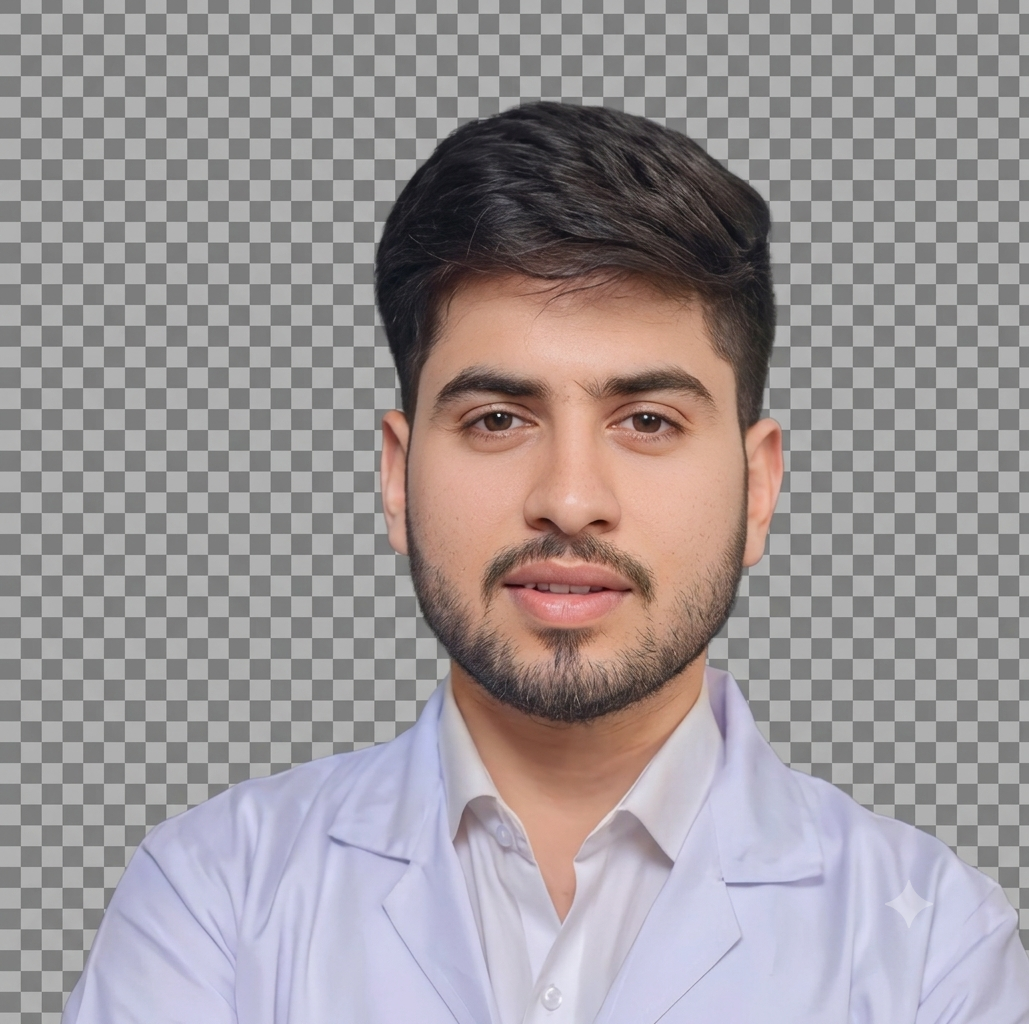
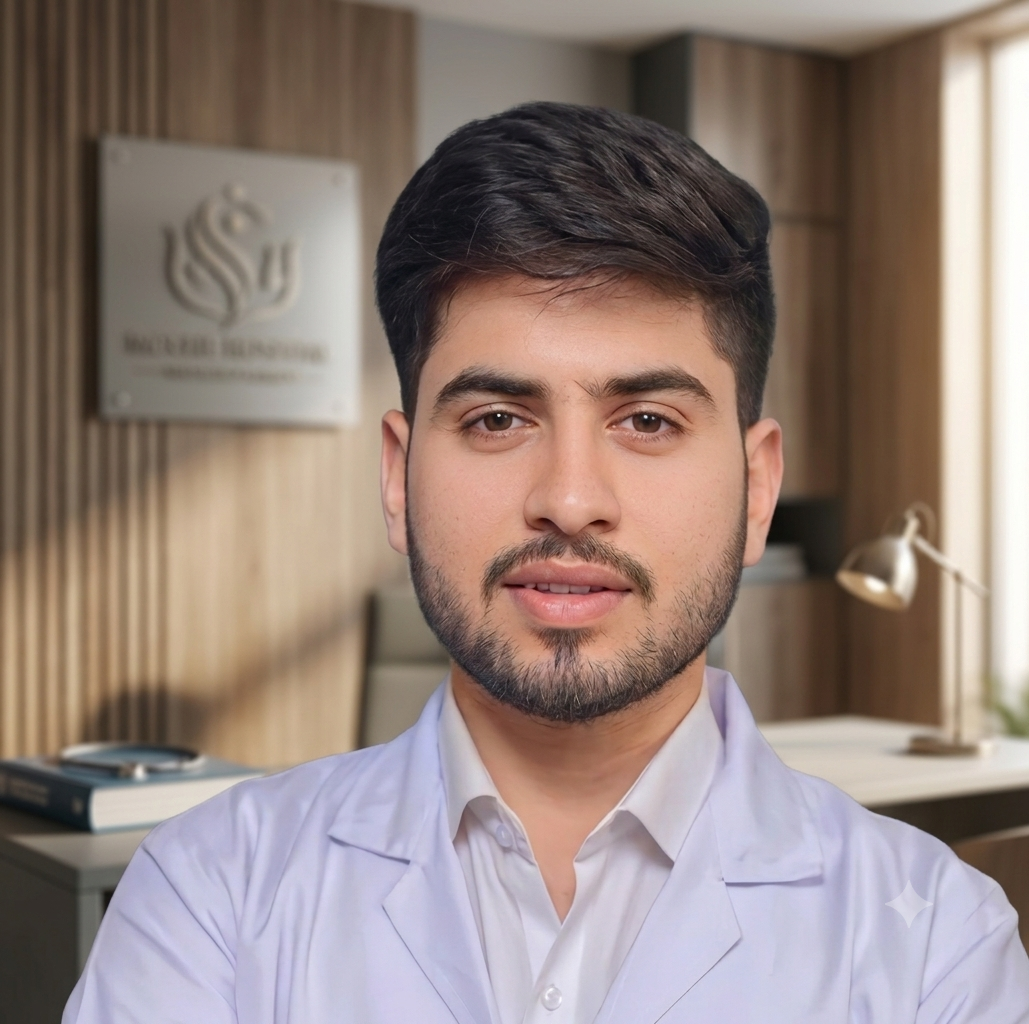
v4

diff --git a/src/components/YoutubeSlider.tsx b/src/components/YoutubeSlider.tsx
@@ -1,0 +1,116 @@
+import React, { useCallback, useEffect, useState } from 'react';
+import useEmblaCarousel from 'embla-carousel-react';
+import { ChevronLeft, ChevronRight, Youtube } from 'lucide-react';
+import { motion } from 'framer-motion';
+
+// Replace these IDs with the actual video IDs from the channel
+const YOUTUBE_VIDEO_IDS = [
+  "dQw4w9WgXcQ", 
+  "jNQXAC9IVRw",
+  "M7lc1UVf-VE",
+  "2g811Eo7K8U",
+  "ysz5S6PUM-U"
+];
+
+const YoutubeSlider = () => {
+  const [emblaRef, emblaApi] = useEmblaCarousel({
+    align: 'start',
+    loop: true,
+    slidesToScroll: 1,
+    breakpoints: {
+      '(min-width: 768px)': { slidesToScroll: 2 },
+      '(min-width: 1024px)': { slidesToScroll: 3 }
+    }
+  });
+
+  const [prevBtnEnabled, setPrevBtnEnabled] = useState(false);
+  const [nextBtnEnabled, setNextBtnEnabled] = useState(false);
+
+  const scrollPrev = useCallback(() => emblaApi && emblaApi.scrollPrev(), [emblaApi]);
+  const scrollNext = useCallback(() => emblaApi && emblaApi.scrollNext(), [emblaApi]);
+
+  const onSelect = useCallback(() => {
+    if (!emblaApi) return;
+    setPrevBtnEnabled(emblaApi.canScrollPrev());
+    setNextBtnEnabled(emblaApi.canScrollNext());
+  }, [emblaApi]);
+
+  useEffect(() => {
+    if (!emblaApi) return;
+    onSelect();
+    emblaApi.on('select', onSelect);
+    emblaApi.on('reInit', onSelect);
+  }, [emblaApi, onSelect]);
+
+  return (
+    <section className="py-24 bg-white relative overflow-hidden">
+      <div className="container mx-auto px-4 relative z-10">
+        <motion.div initial={{ opacity: 0, y: 20 }} whileInView={{ opacity: 1, y: 0 }} viewport={{ once: true }} className="text-center mb-16">
+          <div className="inline-flex items-center gap-2 px-4 py-2 rounded-full bg-red-50 text-red-600 text-sm font-bold tracking-wide uppercase mb-6 border border-red-100">
+            <Youtube className="w-5 h-5" />
+            Watch Our Videos
+          </div>
+          <h2 className="font-display text-4xl md:text-5xl font-bold text-foreground mt-2">Patient Success & Insights</h2>
+          <p className="text-muted-foreground mt-4 max-w-2xl mx-auto text-lg">
+            See real results and learn more about chiropractic care directly from Dr. Harshvardhan.
+          </p>
+        </motion.div>
+
+        <div className="relative max-w-6xl mx-auto">
+          <div className="overflow-hidden rounded-3xl" ref={emblaRef}>
+            <div className="flex -ml-6">
+              {YOUTUBE_VIDEO_IDS.map((id, index) => (
+                <div key={index} className="pl-6 min-w-[90vw] sm:min-w-[50%] lg:min-w-[33.333%] shrink-0">
+                  <div className="bg-zinc-100 rounded-[2rem] shadow-xl overflow-hidden group relative aspect-[9/16] md:aspect-video">
+                    <iframe
+                      width="100%"
+                      height="100%"
+                      src={`https://www.youtube.com/embed/${id}?rel=0`}
+                      title="YouTube video player"
+                      frameBorder="0"
+                      allow="accelerometer; autoplay; clipboard-write; encrypted-media; gyroscope; picture-in-picture; web-share"
+                      referrerPolicy="strict-origin-when-cross-origin"
+                      allowFullScreen
+                      className="absolute inset-0 w-full h-full object-cover"
+                    ></iframe>
+                  </div>
+                </div>
+              ))}
+            </div>
+          </div>
+
+          <button
+            onClick={scrollPrev}
+            className={`absolute left-0 top-1/2 -translate-y-1/2 -translate-x-4 lg:-translate-x-12 w-14 h-14 rounded-full bg-white shadow-2xl border-4 border-white flex items-center justify-center text-primary hover:bg-primary hover:text-white transition-all z-10 ${
+              !prevBtnEnabled ? 'opacity-50 cursor-not-allowed' : ''
+            }`}
+            disabled={!prevBtnEnabled}
+            aria-label="Previous slide"
+          >
+            <ChevronLeft className="w-6 h-6" />
+          </button>
+          
+          <button
+            onClick={scrollNext}
+            className={`absolute right-0 top-1/2 -translate-y-1/2 translate-x-4 lg:translate-x-12 w-14 h-14 rounded-full bg-white shadow-2xl border-4 border-white flex items-center justify-center text-primary hover:bg-primary hover:text-white transition-all z-10 ${
+              !nextBtnEnabled ? 'opacity-50 cursor-not-allowed' : ''
+            }`}
+            disabled={!nextBtnEnabled}
+            aria-label="Next slide"
+          >
+            <ChevronRight className="w-6 h-6" />
+          </button>
+        </div>
+
+        <div className="text-center mt-12">
+          <a href="https://www.youtube.com/@drHarshvardhanchiropactor/videos" target="_blank" rel="noopener noreferrer" className="inline-flex items-center justify-center gap-2 px-8 py-4 rounded-full bg-red-600 text-white font-bold hover:bg-red-700 transition-colors shadow-lg hover:shadow-xl hover:scale-105 transform duration-300">
+            <Youtube className="w-6 h-6" />
+            View Channel
+          </a>
+        </div>
+      </div>
+    </section>
+  );
+};
+
+export default YoutubeSlider;

diff --git a/src/components/ContactSection.tsx b/src/components/ContactSection.tsx
@@ -1,65 +1,87 @@
 import { motion } from "framer-motion";
 import { MapPin, Phone, Clock, Mail } from "lucide-react";
+import { doctor } from "@/data/siteData";
 
 const ContactSection = () => (
-  <section id="contact" className="py-20">
-    <div className="container mx-auto px-4">
+  <section id="contact" className="py-24 bg-white relative overflow-hidden">
+    {/* Decorative background */}
+    <div className="absolute top-0 right-0 w-1/3 h-1/2 bg-blue-50/50 rounded-bl-[100px] pointer-events-none" />
+
+    <div className="container mx-auto px-4 relative z-10">
       <motion.div initial={{ opacity: 0, y: 20 }} whileInView={{ opacity: 1, y: 0 }} viewport={{ once: true }} className="text-center mb-16">
-        <span className="text-primary font-semibold text-sm uppercase tracking-wider">Contact Us</span>
-        <h2 className="font-display text-3xl md:text-4xl font-bold text-foreground mt-2">Visit Our Clinic</h2>
+        <div className="inline-flex items-center gap-2 px-4 py-2 rounded-full bg-primary/10 text-primary text-sm font-bold tracking-wide uppercase mb-6">
+          <span className="w-2 h-2 rounded-full bg-primary" />
+          Contact Us
+        </div>
+        <h2 className="font-display text-4xl md:text-5xl font-bold text-foreground">Visit Our Clinic</h2>
       </motion.div>
 
-      <div className="grid lg:grid-cols-2 gap-12">
-        <motion.div initial={{ opacity: 0, x: -30 }} whileInView={{ opacity: 1, x: 0 }} viewport={{ once: true }} className="space-y-8">
-          <div className="flex gap-4 items-start">
-            <div className="w-12 h-12 rounded-2xl gradient-hero flex items-center justify-center flex-shrink-0">
-              <MapPin className="w-6 h-6 text-primary-foreground" />
+      <div className="grid lg:grid-cols-2 gap-12 lg:gap-20 items-center">
+        <motion.div initial={{ opacity: 0, x: -30 }} whileInView={{ opacity: 1, x: 0 }} viewport={{ once: true }} className="space-y-10">
+          
+          <div className="flex gap-5 items-start group">
+            <div className="w-14 h-14 rounded-2xl bg-blue-50 flex items-center justify-center flex-shrink-0 group-hover:bg-primary transition-colors duration-300">
+              <MapPin className="w-6 h-6 text-primary group-hover:text-white transition-colors duration-300" />
             </div>
             <div>
-              <h3 className="font-display font-semibold text-foreground mb-1">Address</h3>
-              <p className="text-muted-foreground text-sm">House no -26, S.B vihar gate, Nanag vihar, 10, Swej Farm Rd, near relience smart point, Ramnagar Extension, Sodala, Jaipur, Rajasthan 302019</p>
+              <h3 className="font-display text-xl font-bold text-foreground mb-2">Clinic Address</h3>
+              <a href="https://maps.app.goo.gl/KNbUom8mUeFJZLvu5" target="_blank" rel="noopener noreferrer" className="text-muted-foreground hover:text-primary transition-colors text-lg leading-relaxed block">
+                333, Gurunanakpura, Tilak Nagar, <br />
+                Jaipur, Rajasthan 302004
+              </a>
             </div>
           </div>
-          <div className="flex gap-4 items-start">
-            <div className="w-12 h-12 rounded-2xl gradient-hero flex items-center justify-center flex-shrink-0">
-              <Phone className="w-6 h-6 text-primary-foreground" />
+
+          <div className="flex gap-5 items-start group">
+            <div className="w-14 h-14 rounded-2xl bg-blue-50 flex items-center justify-center flex-shrink-0 group-hover:bg-primary transition-colors duration-300">
+              <Phone className="w-6 h-6 text-primary group-hover:text-white transition-colors duration-300" />
             </div>
             <div>
-              <h3 className="font-display font-semibold text-foreground mb-1">Phone</h3>
-              <a href="tel:+919588925771" className="text-primary font-medium">+91 9588925771</a>
+              <h3 className="font-display text-xl font-bold text-foreground mb-2">Phone</h3>
+              <a href="tel:+919588925771" className="text-muted-foreground hover:text-primary transition-colors text-lg block">+91 95889 25771</a>
             </div>
           </div>
-          <div className="flex gap-4 items-start">
-            <div className="w-12 h-12 rounded-2xl gradient-hero flex items-center justify-center flex-shrink-0">
-              <Mail className="w-6 h-6 text-primary-foreground" />
+
+          <div className="flex gap-5 items-start group">
+            <div className="w-14 h-14 rounded-2xl bg-blue-50 flex items-center justify-center flex-shrink-0 group-hover:bg-primary transition-colors duration-300">
+              <Mail className="w-6 h-6 text-primary group-hover:text-white transition-colors duration-300" />
             </div>
             <div>
-              <h3 className="font-display font-semibold text-foreground mb-1">Email</h3>
-              <a href="mailto:[email redacted]" className="text-primary font-medium">[email redacted]</a>
+              <h3 className="font-display text-xl font-bold text-foreground mb-2">Email</h3>
+              <a href="mailto:[email redacted]" className="text-muted-foreground hover:text-primary transition-colors text-lg block">[email redacted]</a>
             </div>
           </div>
-          <div className="flex gap-4 items-start">
-            <div className="w-12 h-12 rounded-2xl gradient-hero flex items-center justify-center flex-shrink-0">
-              <Clock className="w-6 h-6 text-primary-foreground" />
+
+          <div className="flex gap-5 items-start group">
+            <div className="w-14 h-14 rounded-2xl bg-blue-50 flex items-center justify-center flex-shrink-0 group-hover:bg-primary transition-colors duration-300">
+              <Clock className="w-6 h-6 text-primary group-hover:text-white transition-colors duration-300" />
             </div>
             <div>
-              <h3 className="font-display font-semibold text-foreground mb-1">Working Hours</h3>
-              <p className="text-muted-foreground text-sm">Mon - Sat: 9:00 AM - 6:00 PM</p>
-              <p className="text-muted-foreground text-sm">Sunday: 9:00 AM - 7:30 PM</p>
+              <h3 className="font-display text-xl font-bold text-foreground mb-2">Working Hours</h3>
+              <p className="text-muted-foreground text-lg">Mon - Sat: 9:00 AM - 6:00 PM</p>
+              <p className="text-muted-foreground text-lg">Sunday: 9:00 AM - 7:30 PM</p>
             </div>
           </div>
         </motion.div>
 
-        <motion.div initial={{ opacity: 0, x: 30 }} whileInView={{ opacity: 1, x: 0 }} viewport={{ once: true }} className="rounded-3xl overflow-hidden shadow-elevated h-80 lg:h-auto">
+        <motion.div initial={{ opacity: 0, x: 30 }} whileInView={{ opacity: 1, x: 0 }} viewport={{ once: true }} className="rounded-[2rem] overflow-hidden shadow-2xl h-[400px] lg:h-[500px] border-4 border-white relative group cursor-pointer">
+          <a href="https://maps.app.goo.gl/KNbUom8mUeFJZLvu5" target="_blank" rel="noopener noreferrer" className="absolute inset-0 z-10 block" aria-label="Open Google Maps">
+             <div className="absolute inset-0 bg-primary/0 group-hover:bg-primary/10 transition-colors duration-300 flex items-center justify-center">
+                <div className="bg-white text-primary font-bold px-6 py-3 rounded-full shadow-xl opacity-0 group-hover:opacity-100 transform translate-y-4 group-hover:translate-y-0 transition-all duration-300">
+                  Open in Google Maps
+                </div>
+             </div>
+          </a>
           <iframe
-            src="https://www.google.com/maps/embed?pb=!1m18!1m12!1m3!1d3559.2!2d75.7725542!3d26.8871956!2m3!1f0!2f0!3f0!3m2!1i1024!2i768!4f13.1!3m3!1m2!1s0x396db576ae709059%3A0xbcb91f3e4f81997d!2sSpinal%20Care%20Chiropractic%20Clinic!5e0!3m2!1sen!2sin!4v1"
+            src="https://maps.google.com/maps?q=333,%20Gurunanakpura,%20Tilak%20Nagar,%20Jaipur,%20Rajasthan%20302004&t=&z=15&ie=UTF8&iwloc=&output=embed"
             width="100%"
             height="100%"
-            style={{ border: 0, minHeight: 320 }}
+            style={{ border: 0 }}
             allowFullScreen
             loading="lazy"
             referrerPolicy="no-referrer-when-downgrade"
             title="Clinic Location"
+            className="w-full h-full grayscale hover:grayscale-0 transition-all duration-700"
           />
         </motion.div>
       </div>

diff --git a/src/pages/Index.tsx b/src/pages/Index.tsx
@@ -4,6 +4,7 @@ import ServicesSection from "@/components/ServicesSection";
 import WhyChooseUs from "@/components/WhyChooseUs";
 import TestimonialsSection from "@/components/TestimonialsSection";
 import GallerySection from "@/components/GallerySection";
+import YoutubeSlider from "@/components/YoutubeSlider";
 import BlogSection from "@/components/BlogSection";
 import BookingSection from "@/components/BookingSection";
 import ContactSection from "@/components/ContactSection";
@@ -18,6 +19,7 @@ const Index = () => (
     <ServicesSection />
     <WhyChooseUs />
     <TestimonialsSection />
+    <YoutubeSlider />
     <GallerySection />
     <BlogSection />
     <BookingSection />